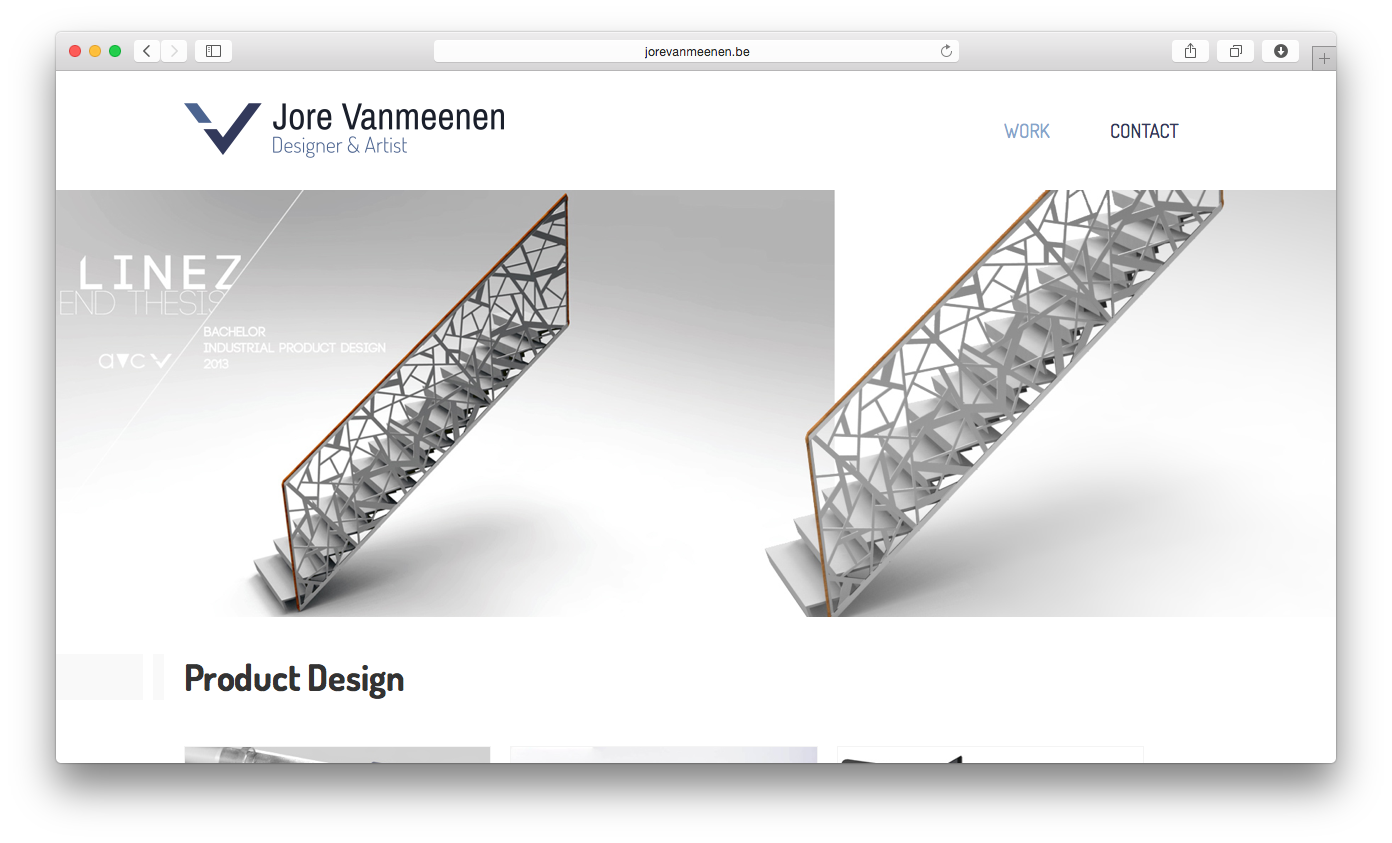
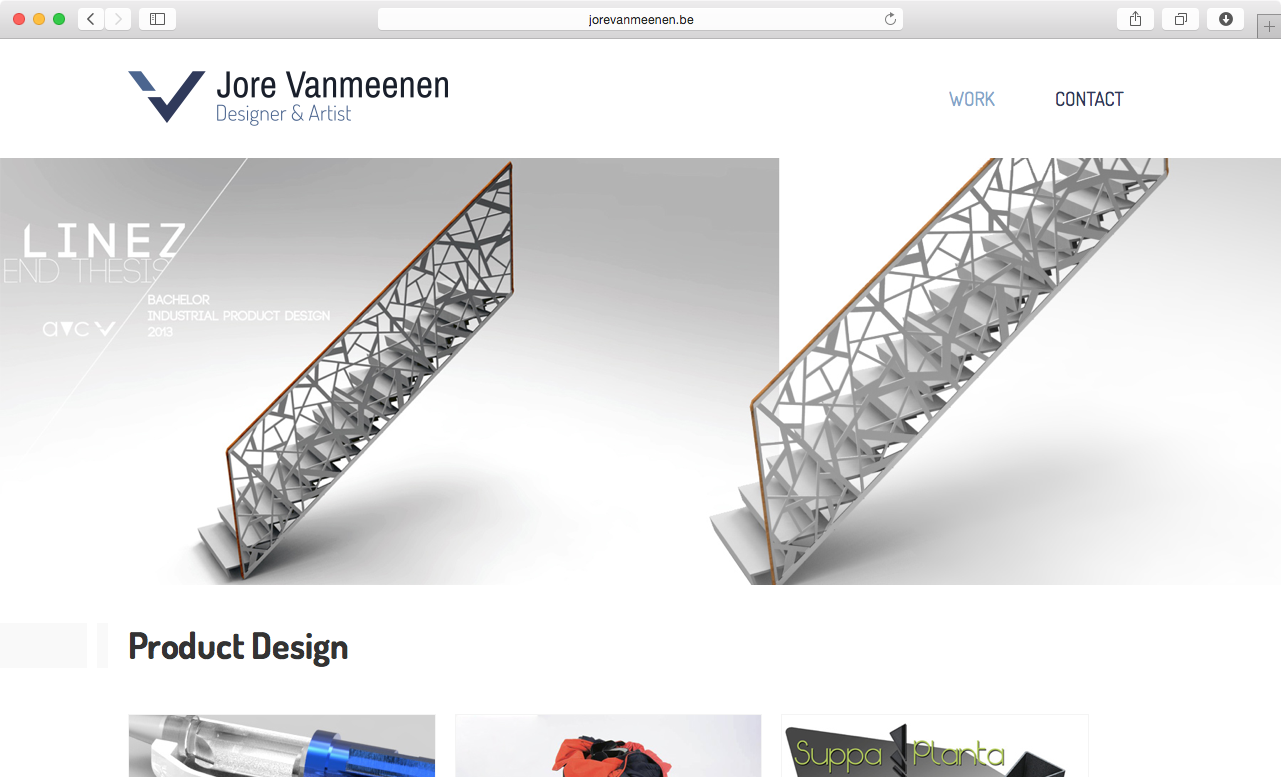
update imageas

Changed region(s): [[0.0, 0.0, 1.0, 1.0], [0.1249, 0.3707, 0.1561, 0.4015]]

diff --git a/dist/css/style.min.css b/dist/css/style.min.css
@@ -1,1 +1,1 @@
-html{box-sizing:border-box}*,:after,:before{box-sizing:inherit}html{height:100%}body{min-height:100%;margin:0}article,aside,details,figcaption,figure,footer,header,hgroup,main,menu,nav,section,summary{display:block}audio,canvas,progress,video{display:inline-block;vertical-align:baseline}audio:not([controls]){display:none;height:0}[hidden],template{display:none}a{background-color:transparent}a:active,a:hover{outline:0}abbr[title]{border-bottom:1px dotted}b,strong{font-weight:700}dfn{font-style:italic}mark{background:#ff0;color:#000}small{font-size:80%}sub,sup{font-size:75%;line-height:0;position:relative;vertical-align:baseline}sup{top:-.5em}sub{bottom:-.25em}img{border:0}svg:not(:root){overflow:hidden}figure{margin:1em 40px}hr{box-sizing:content-box;height:0}pre{overflow:auto}code,kbd,pre,samp{font-family:monospace,monospace;font-size:1em}button,input,optgroup,select,textarea{color:inherit;font:inherit;margin:0}button{overflow:visible}button,select{text-transform:none}button,html input[type=button],input[type=reset],input[type=submit]{-webkit-appearance:button;cursor:pointer}button[disabled],html input[disabled]{cursor:default}button::-moz-focus-inner,input::-moz-focus-inner{border:0;padding:0}input{line-height:normal}input[type=checkbox],input[type=radio]{box-sizing:border-box;padding:0}input[type=number]::-webkit-inner-spin-button,input[type=number]::-webkit-outer-spin-button{height:auto}input[type=search]{-webkit-appearance:textfield;box-sizing:content-box}input[type=search]::-webkit-search-cancel-button,input[type=search]::-webkit-search-decoration{-webkit-appearance:none}fieldset{border:1px solid silver;margin:0 2px;padding:.35em .625em .75em}legend{border:0;padding:0}textarea{overflow:auto}optgroup{font-weight:700}table{border-collapse:collapse;border-spacing:0}td,th{padding:0}*{-moz-osx-font-smoothing:grayscale;-webkit-font-smoothing:antialiased;font-smoothing:antialiased}body,html{font-family:Helvetica,arial,sans-serif;font-size:100%;line-height:1.6;color:#444}html{-ms-text-size-adjust:100%;-webkit-text-size-adjust:100%}p{margin:2.3rem 0 3.2rem}p+h1,p+h2,p+h3,p+h4,p+h5,p+h6{margin-top:3rem}.text--center{text-align:center}h1,h2,h3,h4,h5,h6{margin:1.5rem 0 .8rem;font-family:"Times New Roman",serif;font-weight:400;line-height:1;color:#444}h1+p,h2+p,h3+p,h4+p,h5+p,h6+p{margin-top:0}h1{font-size:3rem;color:#444}h2{font-size:2rem}h3{font-size:1.3rem;color:#444}h4{font-size:1rem;color:#aaa}.content__section{max-width:35rem;margin:0 auto;padding:0 2em}.content__section a{color:#66B4EC}.content__section--full-width{max-width:100%;padding:1em 2em}.content__section__head{font-size:2rem}.content__section__head--top{text-align:center}.content__section__head--left{font-size:1.6rem}.content__section__head--sub{font-size:1.4rem;color:#aaa}.content__section__figure{margin:0;padding:0}.content__section__figure img{display:block;max-width:100%;margin:0 auto}.block-nav{margin:3.1rem 0 5.1rem}.block-nav__item{display:block;margin-bottom:2.3rem;padding-bottom:.6em;text-decoration:none;border-bottom:1px solid #ccc;transition:border-color .3s ease}.block-nav__item:focus,.block-nav__item:hover{outline:0;border-bottom-color:#BDDFF7}.block-nav__item__head{margin-bottom:.4rem}.block-nav__item__sub-text{margin:0;color:#aaa}.page-header{padding:1.6em 2em;margin-bottom:1.85rem}.page-header__link{display:block;text-decoration:none}.page-header__head{display:inline-block;margin:0;font-size:1.4rem}.page-header__head--sub{margin-left:1rem;text-align:center;font-size:.6rem;text-transform:uppercase}.homepage-header{text-align:center;color:#444}.homepage-header__head{margin:3rem 0 0}.homepage-header__head--sub{margin:.5rem 0 5.5rem}@media (min-width:40rem){h1{font-size:5rem}h4{font-size:1.3rem}.content__section__head--left{margin-left:-4rem}}
+html{box-sizing:border-box}*,:after,:before{box-sizing:inherit}html{height:100%}body{min-height:100%;margin:0}article,aside,details,figcaption,figure,footer,header,hgroup,main,menu,nav,section,summary{display:block}audio,canvas,progress,video{display:inline-block;vertical-align:baseline}audio:not([controls]){display:none;height:0}[hidden],template{display:none}a{background-color:transparent}a:active,a:hover{outline:0}abbr[title]{border-bottom:1px dotted}b,strong{font-weight:700}dfn{font-style:italic}mark{background:#ff0;color:#000}small{font-size:80%}sub,sup{font-size:75%;line-height:0;position:relative;vertical-align:baseline}sup{top:-.5em}sub{bottom:-.25em}img{border:0}svg:not(:root){overflow:hidden}figure{margin:1em 40px}hr{box-sizing:content-box;height:0}pre{overflow:auto}code,kbd,pre,samp{font-family:monospace,monospace;font-size:1em}button,input,optgroup,select,textarea{color:inherit;font:inherit;margin:0}button{overflow:visible}button,select{text-transform:none}button,html input[type=button],input[type=reset],input[type=submit]{-webkit-appearance:button;cursor:pointer}button[disabled],html input[disabled]{cursor:default}button::-moz-focus-inner,input::-moz-focus-inner{border:0;padding:0}input{line-height:normal}input[type=checkbox],input[type=radio]{box-sizing:border-box;padding:0}input[type=number]::-webkit-inner-spin-button,input[type=number]::-webkit-outer-spin-button{height:auto}input[type=search]{-webkit-appearance:textfield;box-sizing:content-box}input[type=search]::-webkit-search-cancel-button,input[type=search]::-webkit-search-decoration{-webkit-appearance:none}fieldset{border:1px solid silver;margin:0 2px;padding:.35em .625em .75em}legend{border:0;padding:0}textarea{overflow:auto}optgroup{font-weight:700}table{border-collapse:collapse;border-spacing:0}td,th{padding:0}*{-moz-osx-font-smoothing:grayscale;-webkit-font-smoothing:antialiased;font-smoothing:antialiased}body,html{font-family:Helvetica,arial,sans-serif;font-size:100%;line-height:1.6;color:#444}html{-ms-text-size-adjust:100%;-webkit-text-size-adjust:100%}p{margin:2.3rem 0 3.2rem}p+h1,p+h2,p+h3,p+h4,p+h5,p+h6{margin-top:3rem}.text--center{text-align:center}h1,h2,h3,h4,h5,h6{margin:1.5rem 0 .8rem;font-family:"Times New Roman",serif;font-weight:400;line-height:1;color:#444}h1+p,h2+p,h3+p,h4+p,h5+p,h6+p{margin-top:0}h1{font-size:3rem;color:#444}h2{font-size:2rem}h3{font-size:1.3rem;color:#444}h4{font-size:1rem;color:#aaa}.content__section{max-width:35rem;margin:0 auto;padding:0 2em}.content__section a{color:#66B4EC}.content__section--full-width{max-width:100%;padding:1em 2em}.content__section__head{font-size:2rem}.content__section__head--top{text-align:center}.content__section__head--left{font-size:1.6rem}.content__section__head--sub{font-size:1.4rem;color:#aaa}.content__section__figure{margin:4rem 0;padding:0 2em}.content__section__figure img{display:block;max-width:100%;margin:0 auto}.block-nav{margin:3.1rem 0 5.1rem}.block-nav__item{display:block;margin-bottom:2.3rem;padding-bottom:.6em;text-decoration:none;border-bottom:1px solid #ccc;transition:border-color .3s ease}.block-nav__item:focus,.block-nav__item:hover{outline:0;border-bottom-color:#BDDFF7}.block-nav__item__head{margin-bottom:.4rem}.block-nav__item__sub-text{margin:0;color:#aaa}.page-header{padding:1.6em 2em;margin-bottom:1.85rem}.page-header__link{display:block;text-decoration:none}.page-header__head{display:inline-block;margin:0;font-size:1.4rem}.page-header__head--sub{margin-left:1rem;text-align:center;font-size:.6rem;text-transform:uppercase}.homepage-header{text-align:center;color:#444}.homepage-header__head{margin:3rem 0 0}.homepage-header__head--sub{margin:.5rem 0 5.5rem}@media (min-width:40rem){h1{font-size:5rem}h4{font-size:1.3rem}.content__section__head--left{margin-left:-4rem}}

diff --git a/app/scss/components/_content.scss b/app/scss/components/_content.scss
@@ -54,8 +54,8 @@
 /* Section - Screens
    ========================================================================== */
 .content__section__figure {
-    margin: 0;
-    padding: 0;
+    margin: 4rem 0;
+    padding: 0 2em;
 
     img {
         display: block;
